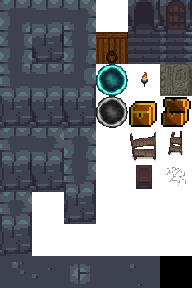
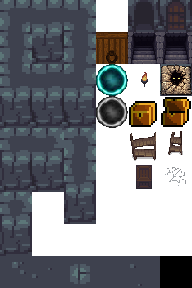
fix stairs are now more easily visible, added a spashscreen to start correctly the music when connecting to the web app

Changed region(s): [[0.6562, 0.0938, 1.0, 0.3438]]

diff --git a/src/main.ts b/src/main.ts
@@ -50,6 +50,8 @@ export function markBackgroundDirty() {
 let gameLoopRunning = false;
 let animationFrameId: number | null = null;
 let isPaused = false;
+let splashShown = false;
+let audioInitialized = false;
 
 export function getIsPaused() {
   return isPaused;
@@ -415,10 +417,9 @@ async function startGame() {
     setupVictoryButtons();
     setupGameOverButtons();
     setupKeyboardShortcuts();
+    setupSplashScreen();
 
-    // ✅ DÉMARRER SUR LE MENU
-    sceneManager.switchSceneTo("menu");
-    audioManager.playMusic("menu");
+
     
   } catch (error) {
     console.error("❌ Error during initialization:", error);
@@ -426,6 +427,33 @@ async function startGame() {
       console.error("Stack:", error.stack);
     }
   }
+}
+
+function setupSplashScreen() {
+  const initSplash = () => {
+    if (!splashShown) {
+      console.log("✨ Splash screen clicked!");
+      splashShown = true;
+      
+      // Passer au menu
+      sceneManager.switchSceneTo("menu");
+      
+      // Lancer la musique
+      if (!audioInitialized) {
+        console.log("🎵 Starting menu music...");
+        audioManager.playMusic("menu");
+        audioInitialized = true;
+      }
+      
+      // Retirer les listeners
+      document.removeEventListener("click", initSplash);
+      document.removeEventListener("keydown", initSplash);
+    }
+  };
+
+  // Attendre un clic ou une touche
+  document.addEventListener("click", initSplash, { once: true });
+  document.addEventListener("keydown", initSplash, { once: true });
 }
 
 startGame();

diff --git a/index.html b/index.html
@@ -201,6 +201,50 @@
         margin-left: 10px;
         min-width: 50px;
       }
+
+    #splash-container {
+    background: #000;
+    display: flex;  /* Par défaut affichée */
+    align-items: center;
+    justify-content: center;
+    z-index: 2000;
+  }
+
+  /* ✅ AJOUTER : Quand pas active, vraiment cachée */
+  #splash-container:not(.active) {
+    display: none !important;
+    z-index: -1;
+  }
+
+  .splash-content {
+    text-align: center;
+    color: white;
+  }
+
+  .splash-logo {
+    width: 200px;
+    height: 200px;
+    margin-bottom: 40px;
+    opacity: 0.9;
+  }
+
+  .splash-content h1 {
+    font-size: 32px;
+    margin: 20px 0;
+    text-shadow: 0 0 10px rgba(255, 255, 255, 0.3);
+  }
+
+  .splash-click {
+    font-size: 14px;
+    margin-top: 60px;
+    color: rgba(255, 255, 255, 0.7);
+    animation: blink 1.5s infinite;
+  }
+
+  @keyframes blink {
+    0%, 50% { opacity: 0.7; }
+    100% { opacity: 1; }
+  }
     </style>
   </head>
   <body>
@@ -210,6 +254,14 @@
       <div id="hud"></div>
       <button id="btn-pause">Pause (ESC)</button>
     </div>
+
+    <div id="splash-container" class="scene active">
+  <div class="splash-content">
+    <img src="public/Stwompy_logo_600px.png" alt="Logo" class="splash-logo">
+    <h1>Game created by Stwompy</h1>
+    <p class="splash-click">Click anywhere to continue</p>
+  </div>
+</div>
 
     <!-- ✅ Menu principal -->
     <div id="menu-container" class="scene active">
